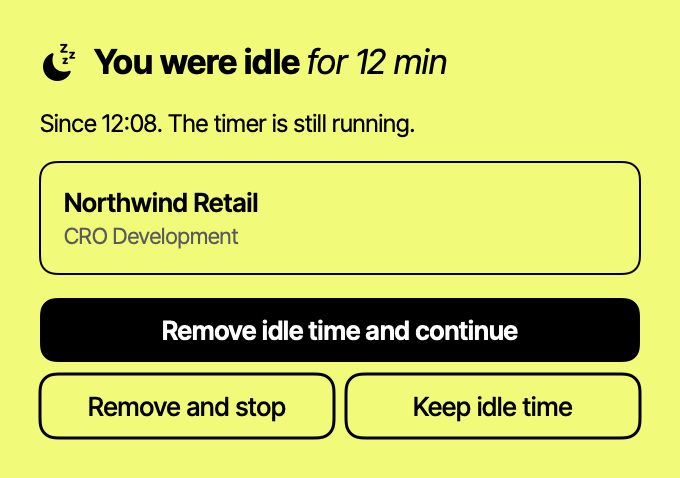
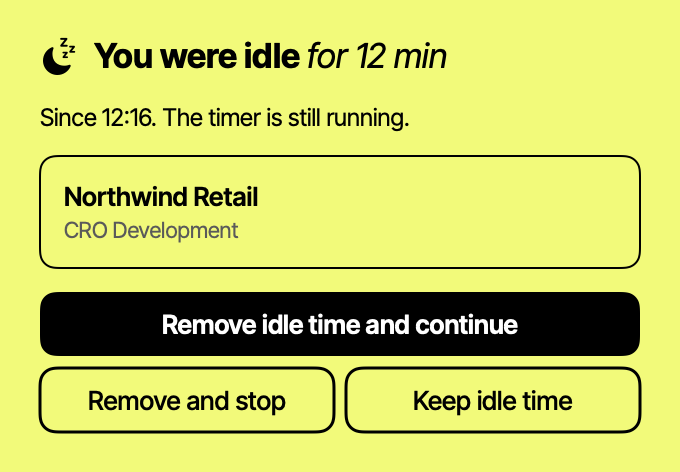
fix: equal visible space above and below the idle question
The heading's line box adds about 3 pt above the letters, so the top looked
3 pt larger than the bottom. The top padding is now 3 pt less: 19 pt of visible
space on both sides, measured on the real panel.

diff --git a/Sources/Tempo/IdleMonitor.swift b/Sources/Tempo/IdleMonitor.swift
@@ -175,6 +175,9 @@ struct IdlePromptView: View {
             }
         }
         .padding(20)
+        // The heading's line box has about 3 pt above the letters: less padding makes the visible space
+        // above the question the same as below the buttons.
+        .padding(.top, -3)
         .frame(width: 340)
         .background(Brand.yellow)
         .foregroundStyle(Color.black)
